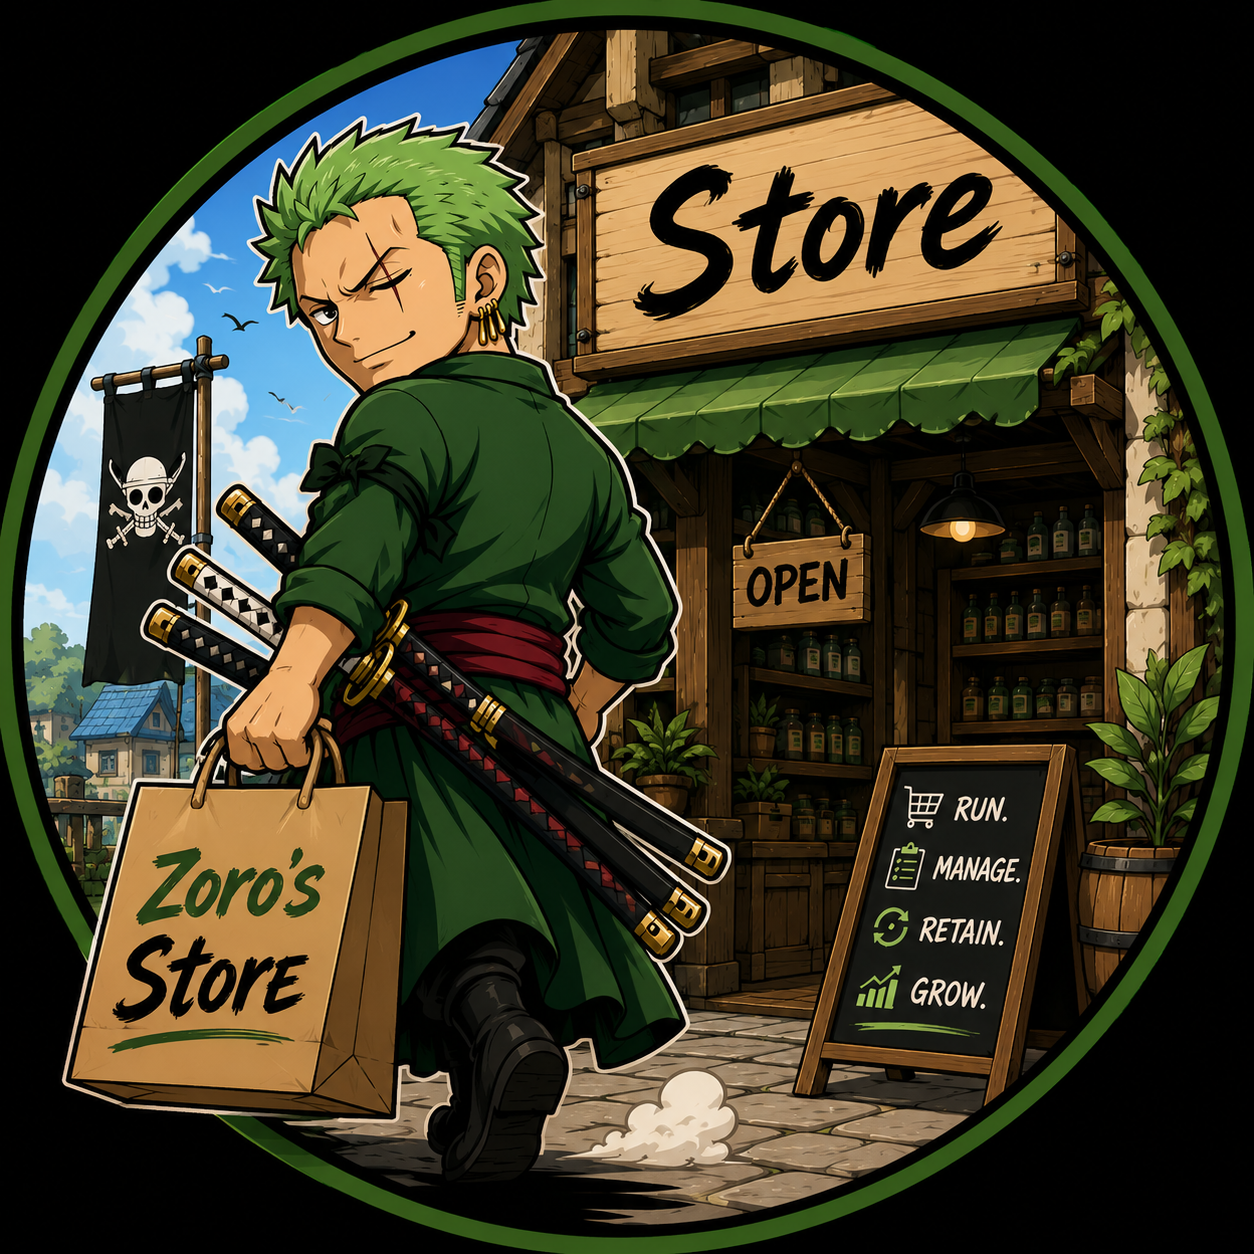
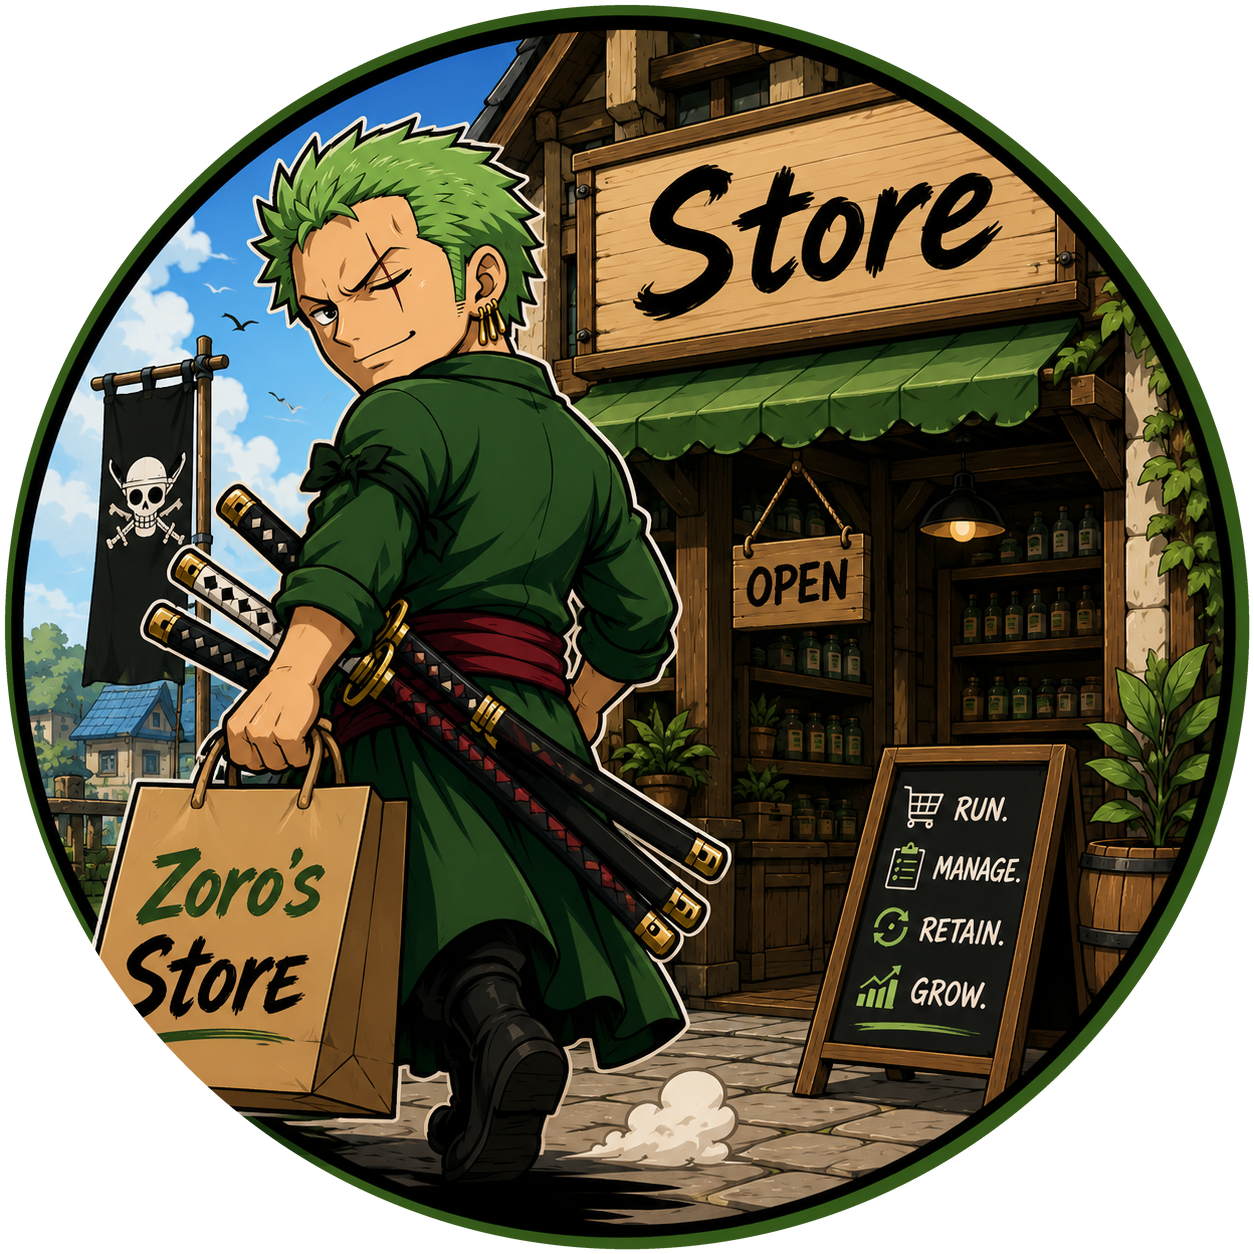
updated mascot's frame

Changed region(s): [[0.0, 0.0, 1.0, 1.0]]

diff --git a/README.md b/README.md
@@ -254,11 +254,9 @@ pie showData
 zoro-samples/
 ├── README.md
 ├── LICENSE                              # MIT, © 2026 Ethara.AI
+├── mascot.png                           # the Zoro's Store emblem above (circular, transparent bg)
 ├── .gitattributes                       # *.jsonl tracked via Git LFS
 ├── .gitignore
-├── assets/
-│   ├── zoro-store.png                   # the Zoro's Store emblem above
-│   └── zoro-mascot.svg                  # vector mark (fox merchant)
 └── <task-uuid>/                         # × 30, UUID = task identity
     ├── task.toml                        # Harbor metadata (archetype, difficulty, …)
     ├── instruction.md                   # the spec the agent sees (~17 lines)
@@ -503,7 +501,7 @@ Outputs land in `VERIFIER_OUT`: `test_results.json`, `council_results.json`, and
 
 <div align="center">
 
-<img src="assets/zoro-store.png" width="110" alt="Zoro's Store emblem">
+<img src="./mascot.png" width="110" alt="Zoro's Store emblem">
 
 **Zoro · Retail Operations RL Environment**
 🛒 Run. &nbsp;📋 Manage. &nbsp;🔁 Retain. &nbsp;📈 Grow.
